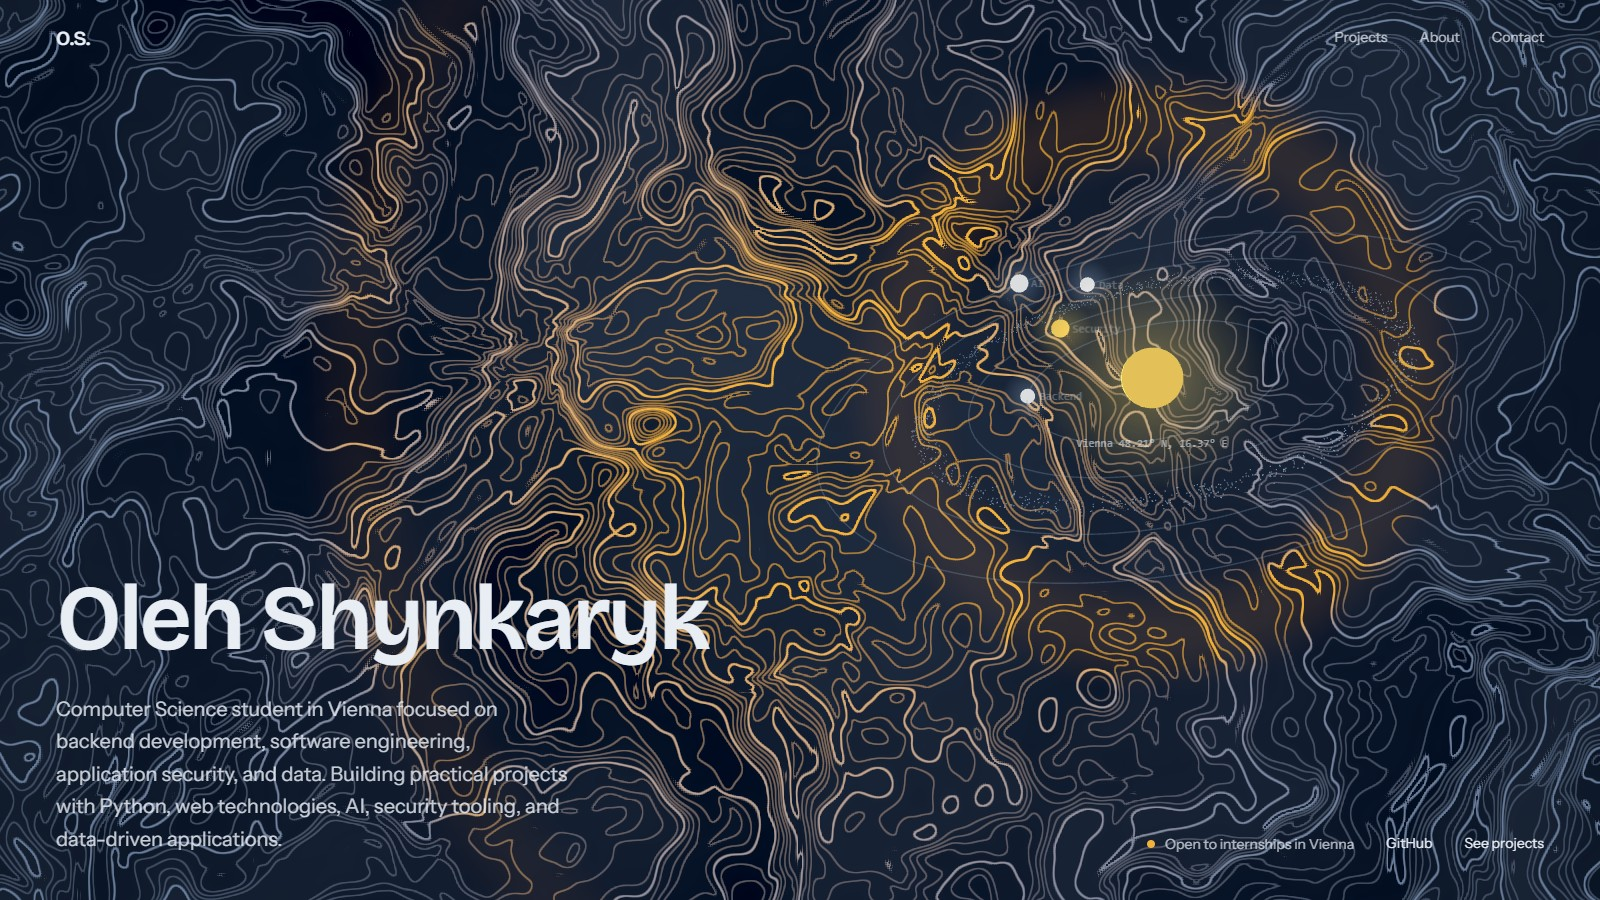
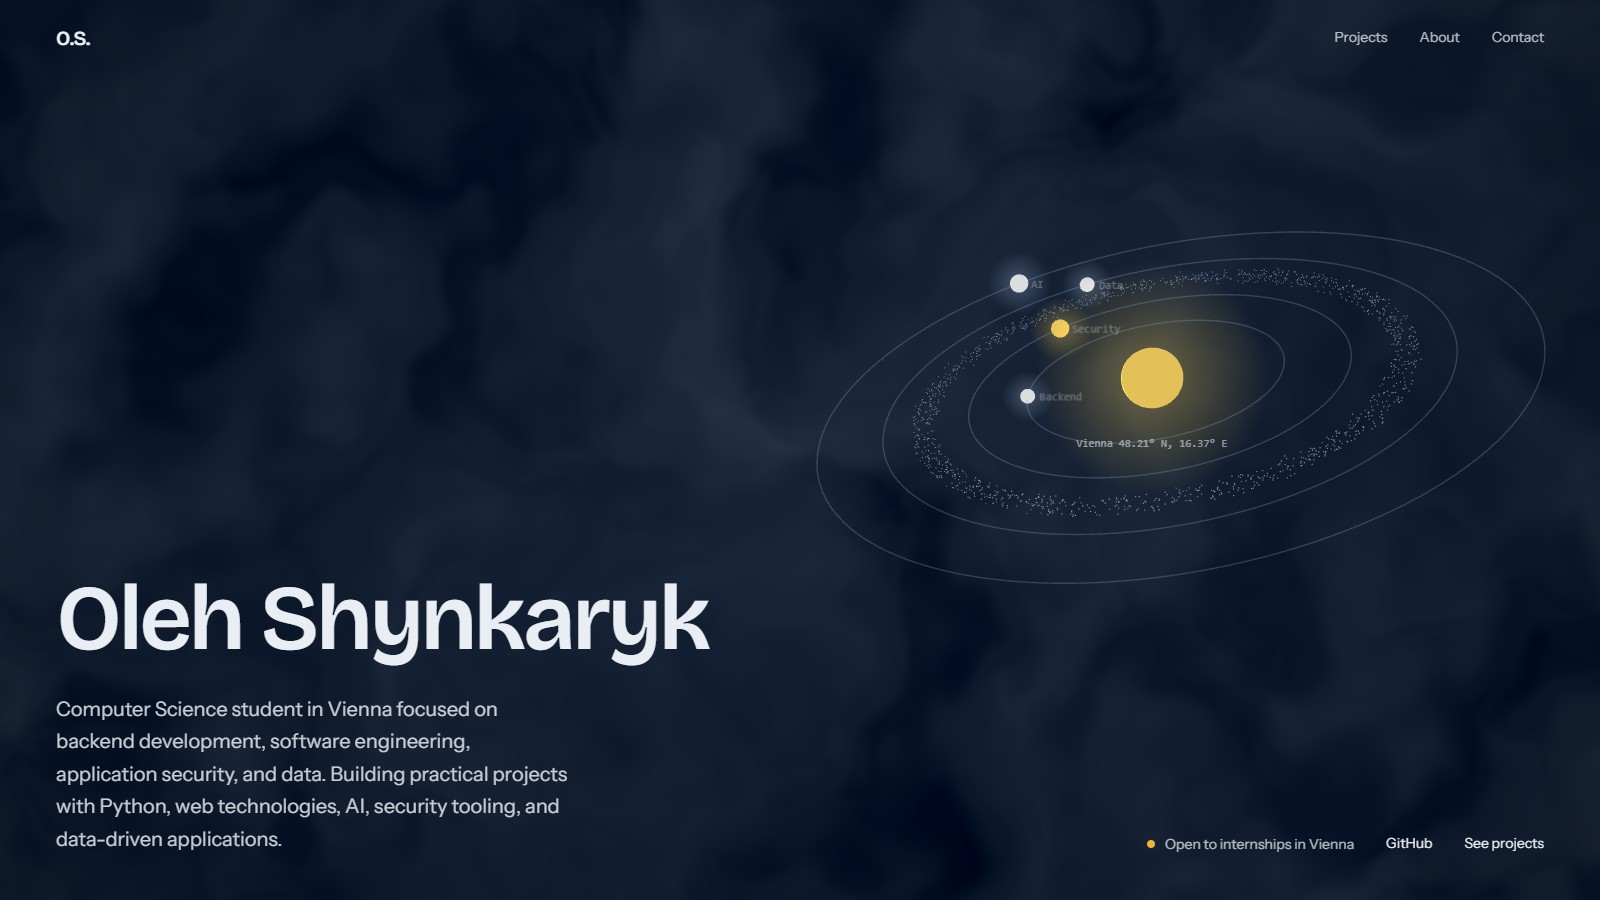
docs: update README screenshots and background description

diff --git a/README.md b/README.md
@@ -5,21 +5,20 @@ focused on backend development, application security, data and applied AI. The s
 four end-to-end projects through animated, scroll-driven scenes, followed by experience,
 education, skills and contact details.
 
-![Hero section with the topographic background and the orbit scene](docs/screenshots/hero.jpg)
+![Hero section with the shader background and the orbit scene](docs/screenshots/hero.jpg)
 
 ![Project section: the GitHub Project Analyst scene after it has played](docs/screenshots/project.jpg)
 
 ## Overview
 
-The page is a single, statically prerendered route built with Next.js and React. Its visual
-identity is a survey map: a topographic contour field rendered in a fragment shader sits behind
-the whole page, and the hero shows an orbiting system whose planets stand for the main areas of
-work. Each project has its own scene that assembles itself as the section comes into view.
+The page is a single, statically prerendered route built with Next.js and React. A quiet,
+slowly drifting terrain rendered in a fragment shader sits behind the whole page, and the hero
+shows an orbiting system whose planets stand for the main areas of work. Each project has its own scene that assembles itself as the section comes into view.
 
 ### Sections
 
-- **Hero.** Name, short introduction and an interactive orbit scene. On load, the map is
-  surveyed outward from the centre while the headline and introduction animate in.
+- **Hero.** Name, short introduction and an interactive orbit scene that grows in while the
+  headline and introduction animate in.
 - **Selected work.** Four projects, each with a summary, technology stack, live demo and
   source links. On desktop the panel pins while its scene plays, then releases so the page
   scrolls normally in both directions.
@@ -44,11 +43,11 @@ work. Each project has its own scene that assembles itself as the section comes 
 The page is designed to stay smooth on older and low-cost hardware without removing or
 simplifying any animation.
 
-- **Adaptive render resolution.** A shared quality governor
+- **Adaptive quality.** A shared quality governor
   ([`components/perf/quality.ts`](components/perf/quality.ts)) picks a starting level from the
   device (CPU cores, memory, software rendering) and then tunes it from measured frame times.
-  It scales only the pixel ratio of the WebGL canvases, so motion and timing stay identical
-  while the GPU load drops on machines that need it.
+  On high-density displays it lowers the pixel ratio of the hero orbit scene when needed, so
+  motion and timing stay identical while the GPU load drops.
 - **Cheaper compositing on slow devices.** At the lowest levels, translucent panels that blur
   the moving background switch to near-solid fills, removing a per-frame blur pass.
 - **WebGL fallback.** Both canvases are wrapped in an error boundary. If WebGL is unavailable or
@@ -66,7 +65,7 @@ app/
   page.tsx                Page composition
   globals.css             Theme tokens and shared styles
 components/
-  background/             Full-page topographic shader
+  background/             Full-page background shader
   hero/                   Hero section and orbit scene
   projects/               Project panels, content and animated scenes
   about/  contact/  nav/  Remaining sections and navigation
